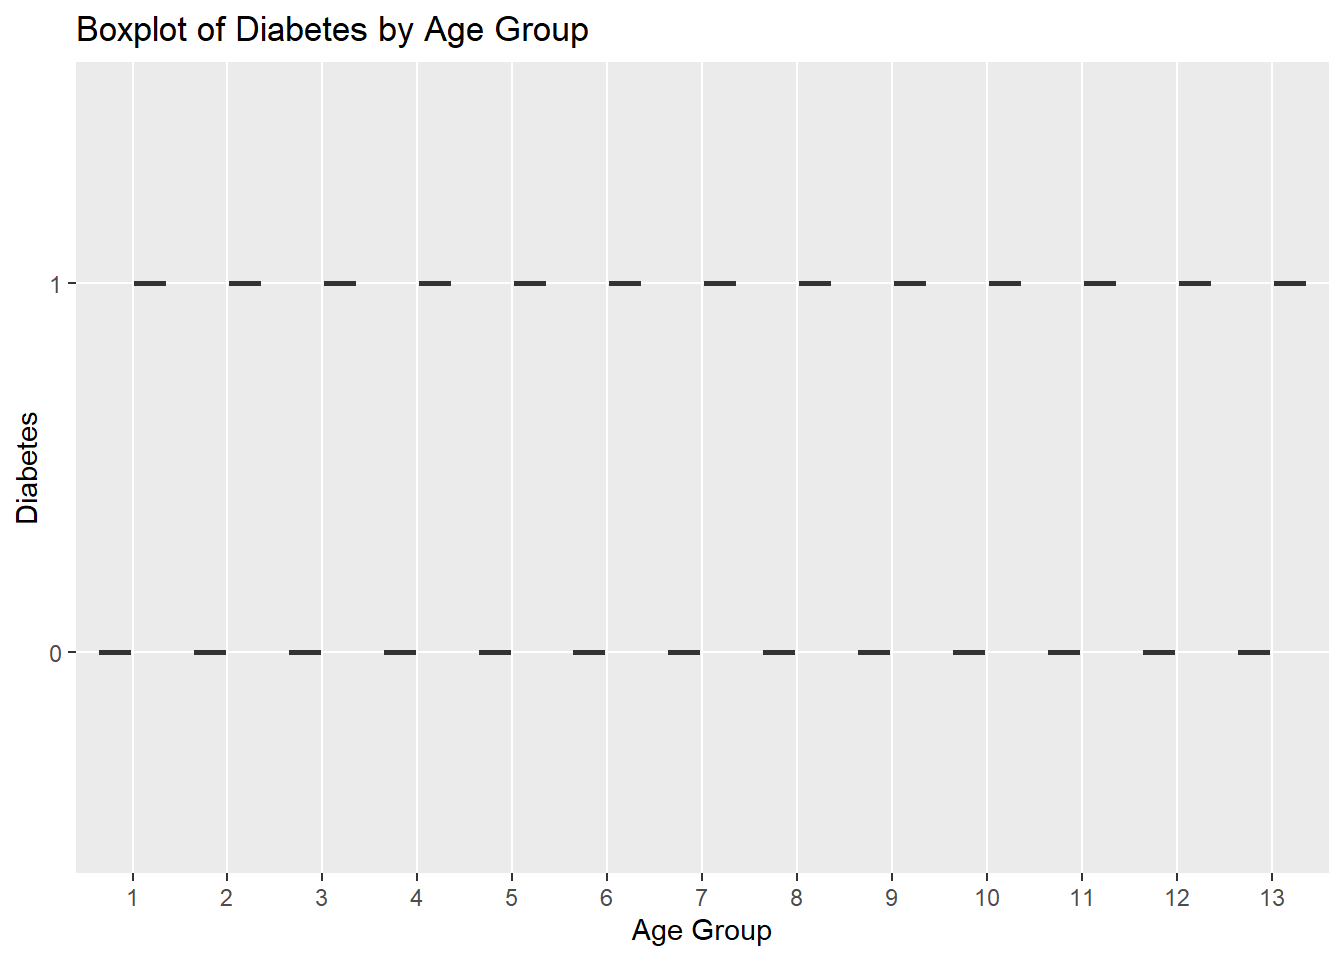
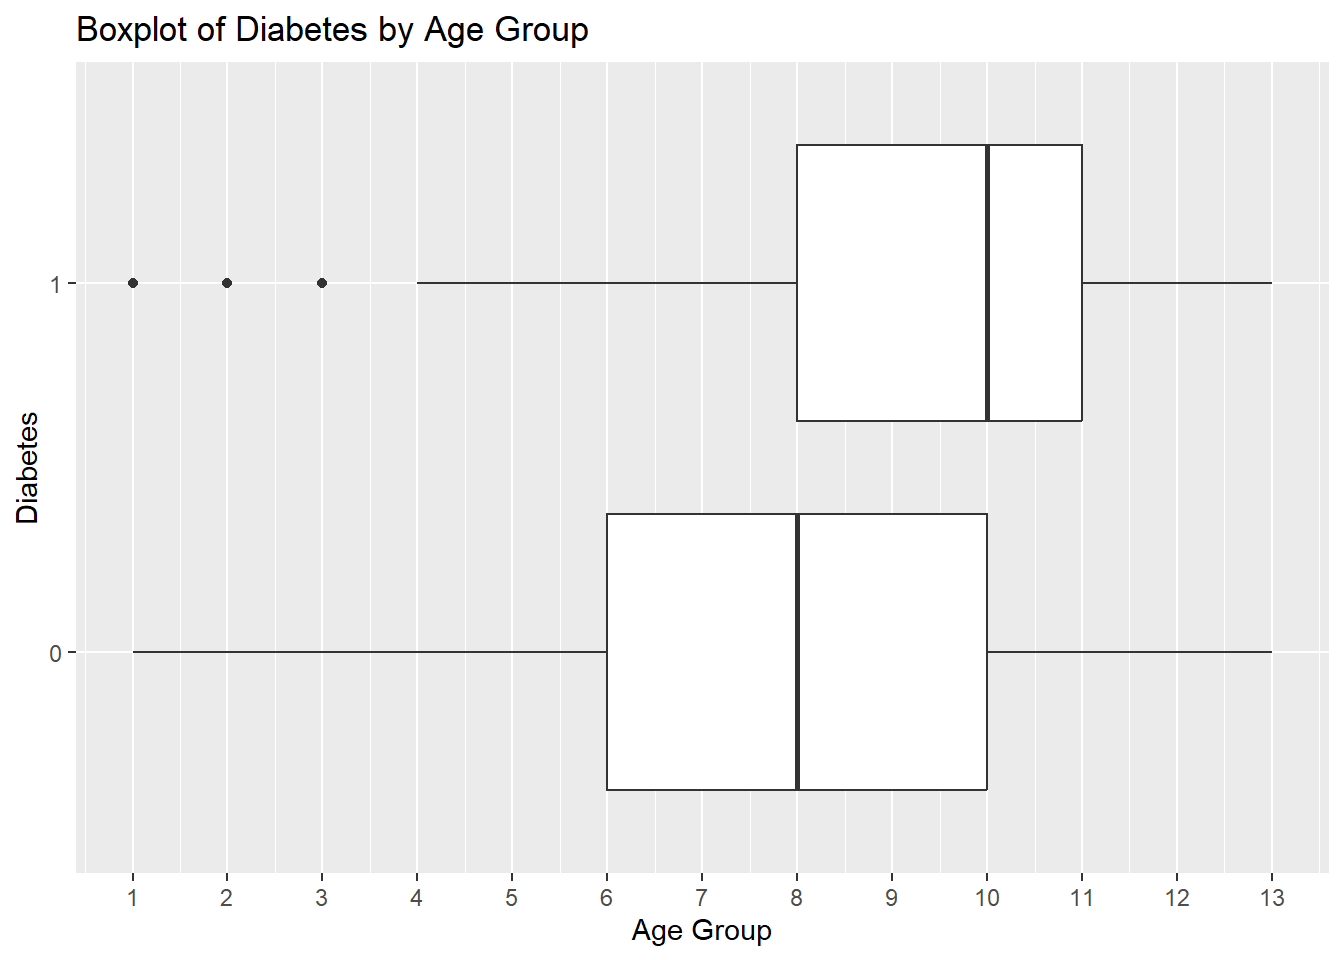
EDA file had errors in the Boxplots.

diff --git a/docs/EDA.html b/docs/EDA.html
@@ -673,9 +673,9 @@ Income      -0.16391879</code></pre>
 </div>
 </div>
 <div class="sourceCode cell-code" id="cb41"><pre class="sourceCode r code-with-copy"><code class="sourceCode r"><span id="cb41-1"><a href="#cb41-1" aria-hidden="true" tabindex="-1"></a><span class="co">#Box Plots</span></span>
-<span id="cb41-2"><a href="#cb41-2" aria-hidden="true" tabindex="-1"></a><span class="fu">ggplot</span>(df, <span class="fu">aes</span>(<span class="at">x =</span> Age_Group , <span class="at">y =</span> Diabetes )) <span class="sc">+</span></span>
-<span id="cb41-3"><a href="#cb41-3" aria-hidden="true" tabindex="-1"></a>  <span class="fu">geom_boxplot</span>() <span class="sc">+</span> <span class="fu">labs</span>(<span class="at">title =</span> <span class="st">"Boxplot of Diabetes by Age Group"</span>, <span class="at">x =</span> <span class="st">"Age Group"</span>, <span class="at">y =</span> <span class="st">"Diabetes"</span>) <span class="sc">+</span></span>
-<span id="cb41-4"><a href="#cb41-4" aria-hidden="true" tabindex="-1"></a>  <span class="fu">scale_x_discrete</span>(<span class="at">breaks=</span><span class="fu">seq</span>(<span class="fu">min</span>(<span class="fu">as.numeric</span>(df<span class="sc">$</span>Age_Group)),<span class="fu">max</span>(<span class="fu">as.numeric</span>(df<span class="sc">$</span>Age_Group)),<span class="at">by=</span><span class="dv">1</span>))</span></code><button title="Copy to Clipboard" class="code-copy-button"><i class="bi"></i></button></pre></div>
+<span id="cb41-2"><a href="#cb41-2" aria-hidden="true" tabindex="-1"></a><span class="fu">ggplot</span>(<span class="at">data =</span> df, <span class="fu">aes</span>(<span class="at">x =</span> <span class="fu">as.numeric</span>(Age_Group) , <span class="at">y =</span> Diabetes )) <span class="sc">+</span></span>
+<span id="cb41-3"><a href="#cb41-3" aria-hidden="true" tabindex="-1"></a>  <span class="fu">geom_boxplot</span>() <span class="sc">+</span> <span class="fu">labs</span>(<span class="at">title =</span> <span class="st">"Boxplot of Diabetes by Age Group"</span>, <span class="at">x =</span> <span class="st">"Age Group"</span>, <span class="at">y =</span> <span class="st">"Diabetes"</span>)  <span class="sc">+</span></span>
+<span id="cb41-4"><a href="#cb41-4" aria-hidden="true" tabindex="-1"></a>  <span class="fu">scale_x_continuous</span>(<span class="at">breaks =</span> <span class="fu">c</span>(<span class="dv">1</span><span class="sc">:</span><span class="dv">13</span>))</span></code><button title="Copy to Clipboard" class="code-copy-button"><i class="bi"></i></button></pre></div>
 <div class="cell-output-display">
 <div>
 <figure class="figure">
@@ -692,10 +692,10 @@ Income      -0.16391879</code></pre>
 </figure>
 </div>
 </div>
-<div class="sourceCode cell-code" id="cb43"><pre class="sourceCode r code-with-copy"><code class="sourceCode r"><span id="cb43-1"><a href="#cb43-1" aria-hidden="true" tabindex="-1"></a><span class="fu">ggplot</span>(df, <span class="fu">aes</span>(<span class="at">x=</span> Age_Group, <span class="at">y=</span> Diabetes)) <span class="sc">+</span></span>
+<div class="sourceCode cell-code" id="cb43"><pre class="sourceCode r code-with-copy"><code class="sourceCode r"><span id="cb43-1"><a href="#cb43-1" aria-hidden="true" tabindex="-1"></a><span class="fu">ggplot</span>(df, <span class="fu">aes</span>(<span class="at">x=</span> <span class="fu">as.numeric</span>(Age_Group), <span class="at">y=</span> Diabetes)) <span class="sc">+</span></span>
 <span id="cb43-2"><a href="#cb43-2" aria-hidden="true" tabindex="-1"></a> <span class="fu">geom_boxplot</span>(<span class="at">notch=</span><span class="cn">FALSE</span>, <span class="at">outlier.shape=</span><span class="cn">NA</span>, <span class="at">fill=</span><span class="st">"red"</span>, <span class="at">alpha=</span><span class="fl">0.1</span>)<span class="sc">+</span></span>
 <span id="cb43-3"><a href="#cb43-3" aria-hidden="true" tabindex="-1"></a> <span class="fu">theme</span>(<span class="at">axis.text.x =</span> <span class="fu">element_text</span>(<span class="at">angle =</span> <span class="dv">90</span>, <span class="at">vjust =</span> <span class="fl">0.5</span>, <span class="at">hjust=</span><span class="dv">1</span>)) <span class="sc">+</span></span>
-<span id="cb43-4"><a href="#cb43-4" aria-hidden="true" tabindex="-1"></a>  <span class="fu">scale_x_discrete</span>(<span class="at">breaks=</span><span class="fu">seq</span>(<span class="fu">min</span>(<span class="fu">as.numeric</span>(df<span class="sc">$</span>Age_Group)),<span class="fu">max</span>(<span class="fu">as.numeric</span>(df<span class="sc">$</span>Age_Group)),<span class="at">by=</span><span class="dv">1</span>))  <span class="sc">+</span> </span>
+<span id="cb43-4"><a href="#cb43-4" aria-hidden="true" tabindex="-1"></a>  <span class="fu">scale_x_continuous</span>(<span class="at">breaks =</span> <span class="fu">c</span>(<span class="dv">1</span><span class="sc">:</span><span class="dv">13</span>))  <span class="sc">+</span> </span>
 <span id="cb43-5"><a href="#cb43-5" aria-hidden="true" tabindex="-1"></a>  </span>
 <span id="cb43-6"><a href="#cb43-6" aria-hidden="true" tabindex="-1"></a> <span class="fu">facet_wrap</span>(. <span class="sc">~</span> Education, <span class="at">scales =</span> <span class="st">"free_y"</span>) <span class="sc">+</span></span>
 <span id="cb43-7"><a href="#cb43-7" aria-hidden="true" tabindex="-1"></a>  <span class="fu">theme</span>(<span class="at">axis.text.x =</span> <span class="fu">element_text</span>(<span class="at">angle =</span> <span class="dv">90</span>, <span class="at">vjust=</span>.<span class="dv">5</span>, <span class="at">hjust=</span><span class="dv">1</span>)) <span class="sc">+</span> </span>
@@ -707,10 +707,10 @@ Income      -0.16391879</code></pre>
 </figure>
 </div>
 </div>
-<div class="sourceCode cell-code" id="cb44"><pre class="sourceCode r code-with-copy"><code class="sourceCode r"><span id="cb44-1"><a href="#cb44-1" aria-hidden="true" tabindex="-1"></a><span class="fu">ggplot</span>(df, <span class="fu">aes</span>(<span class="at">x=</span> Age_Group, <span class="at">y=</span> Diabetes)) <span class="sc">+</span></span>
+<div class="sourceCode cell-code" id="cb44"><pre class="sourceCode r code-with-copy"><code class="sourceCode r"><span id="cb44-1"><a href="#cb44-1" aria-hidden="true" tabindex="-1"></a><span class="fu">ggplot</span>(df, <span class="fu">aes</span>(<span class="at">x=</span> <span class="fu">as.numeric</span>(Age_Group), <span class="at">y=</span> Diabetes)) <span class="sc">+</span></span>
 <span id="cb44-2"><a href="#cb44-2" aria-hidden="true" tabindex="-1"></a> <span class="fu">geom_boxplot</span>(<span class="at">notch=</span><span class="cn">FALSE</span>, <span class="at">outlier.shape=</span><span class="cn">NA</span>, <span class="at">fill=</span><span class="st">"red"</span>, <span class="at">alpha=</span><span class="fl">0.1</span>)<span class="sc">+</span></span>
-<span id="cb44-3"><a href="#cb44-3" aria-hidden="true" tabindex="-1"></a> <span class="fu">theme</span>(<span class="at">axis.text.x =</span> <span class="fu">element_text</span>(<span class="at">angle =</span> <span class="dv">90</span>, <span class="at">vjust =</span> <span class="fl">0.5</span>, <span class="at">hjust=</span><span class="dv">1</span>)) <span class="sc">+</span></span>
-<span id="cb44-4"><a href="#cb44-4" aria-hidden="true" tabindex="-1"></a>  <span class="fu">scale_x_discrete</span>(<span class="at">breaks=</span><span class="fu">seq</span>(<span class="fu">min</span>(<span class="fu">as.numeric</span>(df<span class="sc">$</span>Age_Group)),<span class="fu">max</span>(<span class="fu">as.numeric</span>(df<span class="sc">$</span>Age_Group)),<span class="at">by=</span><span class="dv">1</span>))  <span class="sc">+</span> </span>
+<span id="cb44-3"><a href="#cb44-3" aria-hidden="true" tabindex="-1"></a> <span class="fu">theme</span>(<span class="at">axis.text.x =</span> <span class="fu">element_text</span>(<span class="at">angle =</span> <span class="dv">90</span>, <span class="at">vjust =</span> <span class="fl">0.5</span>, <span class="at">hjust=</span><span class="dv">1</span>))  <span class="sc">+</span></span>
+<span id="cb44-4"><a href="#cb44-4" aria-hidden="true" tabindex="-1"></a>  <span class="fu">scale_x_continuous</span>(<span class="at">breaks =</span> <span class="fu">c</span>(<span class="dv">1</span><span class="sc">:</span><span class="dv">13</span>))  <span class="sc">+</span> </span>
 <span id="cb44-5"><a href="#cb44-5" aria-hidden="true" tabindex="-1"></a>  </span>
 <span id="cb44-6"><a href="#cb44-6" aria-hidden="true" tabindex="-1"></a> <span class="fu">facet_wrap</span>(. <span class="sc">~</span> Income, <span class="at">scales =</span> <span class="st">"free_y"</span>) <span class="sc">+</span></span>
 <span id="cb44-7"><a href="#cb44-7" aria-hidden="true" tabindex="-1"></a>  <span class="fu">theme</span>(<span class="at">axis.text.x =</span> <span class="fu">element_text</span>(<span class="at">angle =</span> <span class="dv">90</span>, <span class="at">vjust=</span>.<span class="dv">5</span>, <span class="at">hjust=</span><span class="dv">1</span>)) <span class="sc">+</span> </span>
